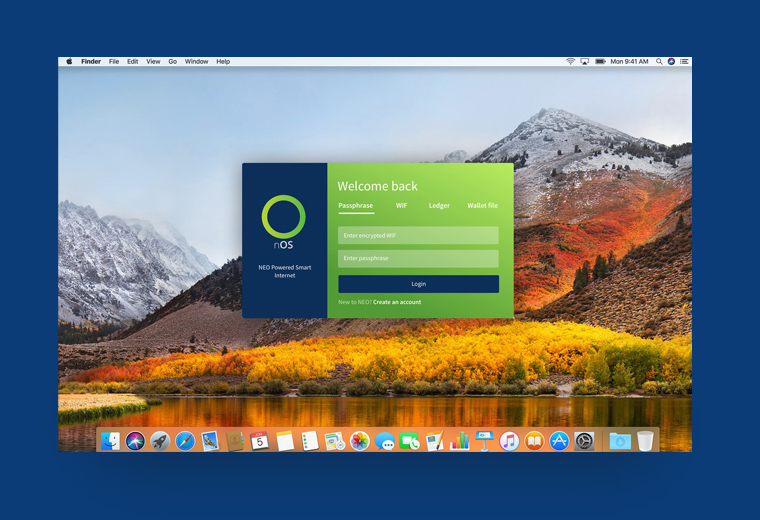
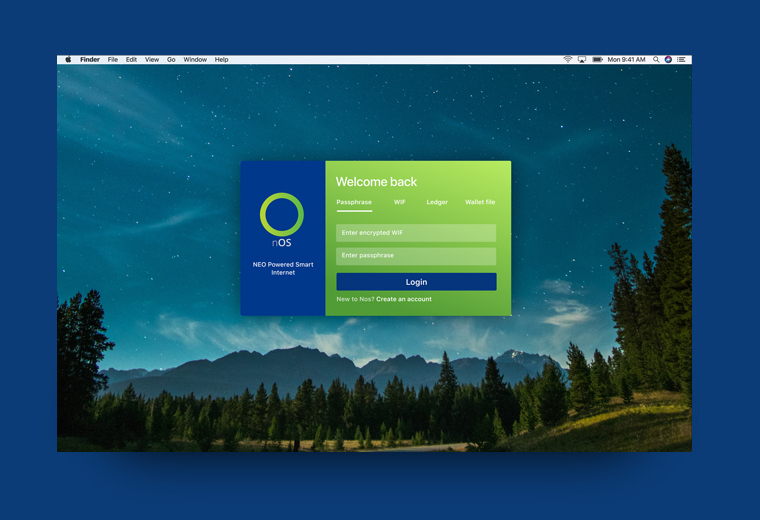
update home page graphics

diff --git a/src/pages/index.html b/src/pages/index.html
@@ -96,7 +96,7 @@
       </div>
 </section>
 
-<div class="grid-container">
+<!-- <div class="grid-container">
     <div class="horizontal-ruler-thin"></div>
 </div>
 
@@ -106,43 +106,13 @@
             <h4 class="portfolio-cat-heading">Other projects</h4>
         </div>
     </div>
-</section>
+</section> -->
 
 <!-- additional projects -->
-<section class="home-portfolio">
+<!-- <section class="home-portfolio">
     <div class="grid-container">
+
             <div class="grid-x grid-margin-x">
-
-                <!-- <div class="cell large-6 medium-6 small-12">
-                    <div class="img-overlay-item">
-                        <div class="img-overlay">
-                            <a href="williams-hotel.html">
-                            <figcaption class="img-overlay-caption">
-                                <h6>Williams Hotel Group</h6>
-                                <div class="text-divider-02"></div>
-                                <p>UX/UI, Front-end Development</p>
-                            </figcaption>
-                            <figure><img src="assets/img/portfolio/portfolio-item-williams-hotel.jpg" alt=""></figure>
-                        </a>
-                        </div>
-                    </div>
-                </div>
-
-            <div class="cell large-6 medium-6 small-12">
-                <div class="img-overlay-item">
-                    <div class="img-overlay">
-                    <a href="te-awe.html">
-                    <figcaption class="img-overlay-caption">
-                        <h6>Te Awe - Wellington Māori Business Network </h6>
-                        <div class="text-divider-02"></div>
-                        <p>User Interface, Front-end Development</p>
-                    </figcaption>
-                    <figure><img src="assets/img/portfolio/portfolio-item-teawe.jpg" alt=""></figure>
-                    </a>
-                    </div>
-                </div>
-            </div> -->
-
             <div class="cell large-6 medium-6 small-12">
                 <div class="img-overlay-item">
                     <div class="img-overlay">
@@ -173,39 +143,9 @@
                 </div>
             </div>
 
-            <!-- <div class="cell large-6 medium-6 small-12">
-                <div class="img-overlay-item">
-                    <div class="img-overlay">
-                    <a href="nos.html">
-                        <figcaption class="img-overlay-caption">
-                        <h6>Turks Chicken</h6>
-                        <div class="text-divider-02"></div>
-                        <p>User Interface, Design</p>
-                        </figcaption>
-                        <figure><img src="assets/img/portfolio/portfolio-item-prefer.jpg" alt=""></figure>
-                    </a>
-                    </div>
-                </div>
-            </div>
-
-            <div class="cell large-6 medium-6 small-12">
-                <div class="img-overlay-item">
-                    <div class="img-overlay">
-                    <a href="nos.html">
-                        <figcaption class="img-overlay-caption">
-                        <h6>Turks Chicken</h6>
-                        <div class="text-divider-02"></div>
-                        <p>User Interface, Design</p>
-                        </figcaption>
-                        <figure><img src="assets/img/portfolio/portfolio-item-smc.jpg" alt=""></figure>
-                    </a>
-                    </div>
-                </div>
-            </div> -->
-
             </div>
         </div>
-    </section>
+    </section> -->
 
 
 

diff --git a/src/assets/scss/pages/_home.scss b/src/assets/scss/pages/_home.scss
@@ -1,9 +1,8 @@
 .home-hero {
   background: $primary-color;
-  // background: #D4A2E3;
   position: relative;
   // background: url(../img/temp-background.jpg) center center no-repeat;
-  background: url(../img/temp-background.jpg) center center no-repeat;
+  // background: url(../img/temp-background.jpg) center center no-repeat;
   background-size:  cover;
   p {
     color: $white;
